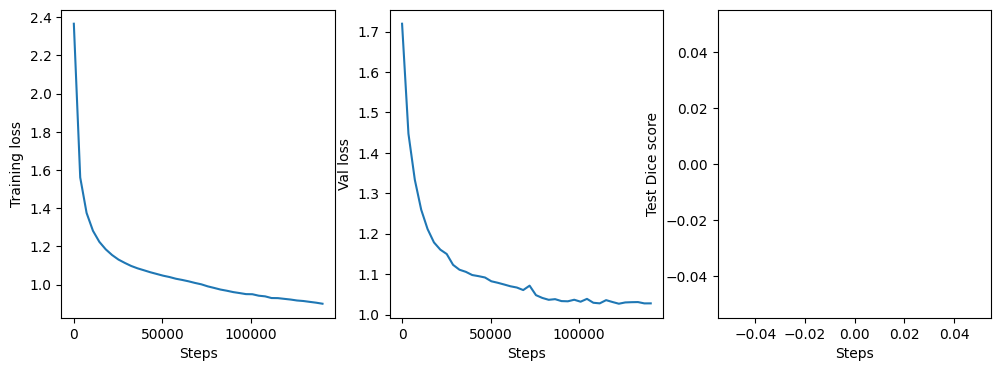
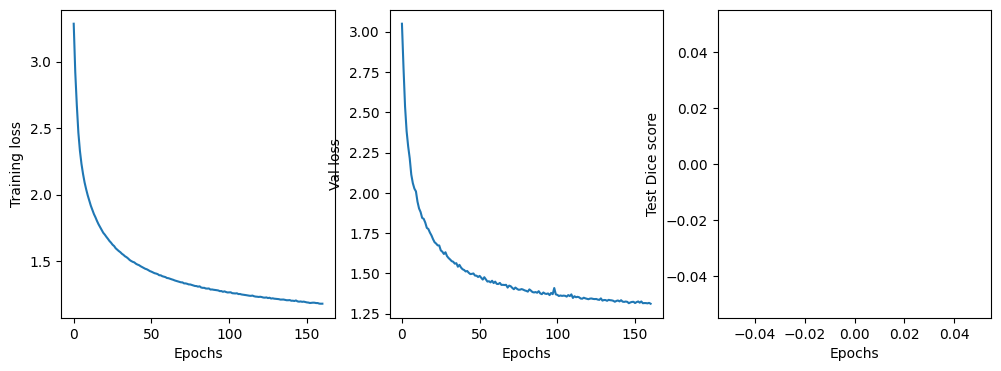
refactor: update training pipeline to return transformer output and remove unused data loading utilities

diff --git a/model_train.py b/model_train.py
@@ -23,7 +23,7 @@ from testionogramdataset import HandPickTraceDataset
 from torch.optim import AdamW
 
 batch_size = 5
-save_model_path = '/media/jackle/LData/MLvipir_save/save_model_latest/'
+save_model_path = '/mnt/LData/MLvipir_save/save_model_latest/'
 
 
     
@@ -51,25 +51,25 @@ def checkpoint_eval(model, epoch_num, i, val_losses, test_losses, losses):
         
     fig, axs = plt.subplots(ncols=3, nrows=1, figsize=(12, 4))
     ax = axs[0]
-    ax.plot(np.arange(len(losses))*checkpoint_N,losses)
-    ax.set_xlabel('Steps');ax.set_ylabel('Training loss')
+    ax.plot(np.arange(len(losses))*checkpoint_N/len(train_loader),losses)
+    ax.set_xlabel('Epochs');ax.set_ylabel('Training loss')
     ax = axs[1]
-    ax.plot(np.arange(len(val_losses))*checkpoint_N,val_losses)
-    ax.set_xlabel('Steps');ax.set_ylabel('Val loss')
+    ax.plot(np.arange(len(val_losses))*checkpoint_N/len(train_loader),val_losses)
+    ax.set_xlabel('Epochs');ax.set_ylabel('Val loss')
     ax = axs[2]
-    ax.plot(np.arange(len(test_losses))*checkpoint_N,test_losses)
-    ax.set_xlabel('Steps');ax.set_ylabel('Test Dice score')
+    ax.plot(np.arange(len(test_losses))*checkpoint_N/len(train_loader),test_losses)
+    ax.set_xlabel('Epochs');ax.set_ylabel('Test Dice score')
     fig.savefig(f'losses.png', bbox_inches='tight')
     plt.close()
     
-    torch.save({
-    'epoch': epoch_num,
-    'model_state_dict': model.state_dict(),
-    'optimizer_state_dict': optimizer.state_dict(),
-    'test_loss': test_losses,
-    'val_loss': val_losses,
-    'train_loss': losses,
-    }, f'{save_model_path}/CEbycol_20ktrain_set_epoch_{epoch_num + 1}_{(i+1)*5}_loss{test_loss:.4f}.pth')
+    # torch.save({
+    # 'epoch': epoch_num,
+    # 'model_state_dict': model.state_dict(),
+    # 'optimizer_state_dict': optimizer.state_dict(),
+    # 'test_loss': test_losses,
+    # 'val_loss': val_losses,
+    # 'train_loss': losses,
+    # }, f'{save_model_path}/CEbycol_VTonly_20ktrain_set_epoch_{epoch_num + 1}_{(i+1)*5}_loss{test_loss:.4f}.pth')
 
 @torch.no_grad()
 def test_on_binary_ionograms(model, epoch_num):    
@@ -175,15 +175,14 @@ losses = []
 val_losses = []
 test_losses = []
 
-# load_checkpoint = torch.load(save_model_path+'TOPHAT_checkpoint_epoch_37_18000_loss1.3966.pth')
-# model.load_state_dict(load_checkpoint['model_state_dict'])
-# optimizer.load_state_dict(load_checkpoint['optimizer_state_dict']) 
-# epoch_elapsed = load_checkpoint['epoch']+1
-# test_losses   = load_checkpoint['test_loss']
-# val_losses    = load_checkpoint['val_loss']
-# losses   = load_checkpoint['train_loss']
-# epochs = 8
-# print('epoch_elapsed: ', epoch_elapsed)
+load_checkpoint = torch.load(save_model_path+'CEbycol_VTonly_20ktrain_set_epoch_160_18000_loss0.0000.pth')
+model.load_state_dict(load_checkpoint['model_state_dict'])
+optimizer.load_state_dict(load_checkpoint['optimizer_state_dict']) 
+epoch_elapsed = load_checkpoint['epoch']+1
+test_losses   = load_checkpoint['test_loss']
+val_losses    = load_checkpoint['val_loss']
+losses   = load_checkpoint['train_loss']
+print('epoch_elapsed: ', epoch_elapsed)
 
 checkpoint_N = len(train_loader) / 1 # Check point every half epoch
 
@@ -214,7 +213,7 @@ for epoch in range(epoch_elapsed,epoch_elapsed+epochs):
                 
         print('-' * 20)
         # break
-        epcoh_elapsed += 1
+        epoch_elapsed += 1
     
         # if epoch % 10 == 0:
         #     learning_rate = learning_rate * 0.5

diff --git a/unet/unet_model.py b/unet/unet_model.py
@@ -16,48 +16,48 @@ class UNet(nn.Module):
         self.n_classes = n_classes
 
         n_att_channel = 2
-        self.att = Transformer(n_heads=1, dim_embd=1024, n_blocks=8, p_drop=dropout_p, n_token=input_size[0], dim_embd_in=input_size[1], n_channel_out=n_att_channel)
+        self.att = Transformer(n_heads=1, dim_embd=1024, n_blocks=16, p_drop=dropout_p, n_token=input_size[0], dim_embd_in=input_size[1], n_channel_out=n_att_channel)
         
-        self.inc = (DoubleConv(n_att_channel, 64))
-        self.down1 = (Down(64, 128))
-        self.down2 = (Down(128, 256))
-        self.down3 = (Down(256, 512))
-        self.down4 = (Down(512, 1024))
-        self.up1 = (Up(1024, 512, up_kernel_size))
-        self.up2 = (Up(512, 256, up_kernel_size))
-        self.up3 = (Up(256, 128, up_kernel_size))
-        self.up4 = (Up(128, 64, up_kernel_size))
-        self.outc = (OutConv(64, n_classes))
+        # self.inc = (DoubleConv(n_att_channel, 64))
+        # self.down1 = (Down(64, 128))
+        # self.down2 = (Down(128, 256))
+        # self.down3 = (Down(256, 512))
+        # self.down4 = (Down(512, 1024))
+        # self.up1 = (Up(1024, 512, up_kernel_size))
+        # self.up2 = (Up(512, 256, up_kernel_size))
+        # self.up3 = (Up(256, 128, up_kernel_size))
+        # self.up4 = (Up(128, 64, up_kernel_size))
+        # self.outc = (OutConv(64, n_classes))
 
-        self.cfc = ColumnFC(input_size[1], input_size[1], n_classes)
+        # self.cfc = ColumnFC(input_size[1], input_size[1], n_classes)
         # self.drop_layer = nn.Dropout(p=dropout_p)
         self.dropout_p = in_dropout_p
 
     def forward(self, x):
         xd = nn.functional.dropout(x,p=self.dropout_p,training=True)
         xa = self.att(xd)
-        x1 = self.inc(xa)
-        # x1 = self.drop_layer(x1)
-        x2 = self.down1(x1)
-        # x2 = self.drop_layer(x2)
-        x3 = self.down2(x2)
-        # x3 = self.drop_layer(x3)
-        x4 = self.down3(x3)
-        # x4 = self.drop_layer(x4)
-        x5 = self.down4(x4)
+        # x1 = self.inc(xa)
+        # # x1 = self.drop_layer(x1)
+        # x2 = self.down1(x1)
+        # # x2 = self.drop_layer(x2)
+        # x3 = self.down2(x2)
+        # # x3 = self.drop_layer(x3)
+        # x4 = self.down3(x3)
+        # # x4 = self.drop_layer(x4)
+        # x5 = self.down4(x4)
         
-        xu = self.up1(x5, x4)
-        # xu = self.drop_layer(xu)
-        xu = self.up2(xu, x3)
-        # xu = self.drop_layer(xu)
-        xu = self.up3(xu, x2)
-        # xu = self.drop_layer(xu)
-        xu = self.up4(xu, x1)
-        # xu = self.drop_layer(xu)
-        logits = self.outc(torch.cat([xd]*64 , dim=1) + xu) #
+        # xu = self.up1(x5, x4)
+        # # xu = self.drop_layer(xu)
+        # xu = self.up2(xu, x3)
+        # # xu = self.drop_layer(xu)
+        # xu = self.up3(xu, x2)
+        # # xu = self.drop_layer(xu)
+        # xu = self.up4(xu, x1)
+        # # xu = self.drop_layer(xu)
+        # logits = self.outc(torch.cat([xd]*64 , dim=1) + xu) #
 
-        logits = self.cfc(logits)
-        return logits
+        # logits = self.cfc(logits)
+        return xa
 
     # def use_checkpointing(self):
     #     self.att = torch.utils.checkpoint(self.att)
